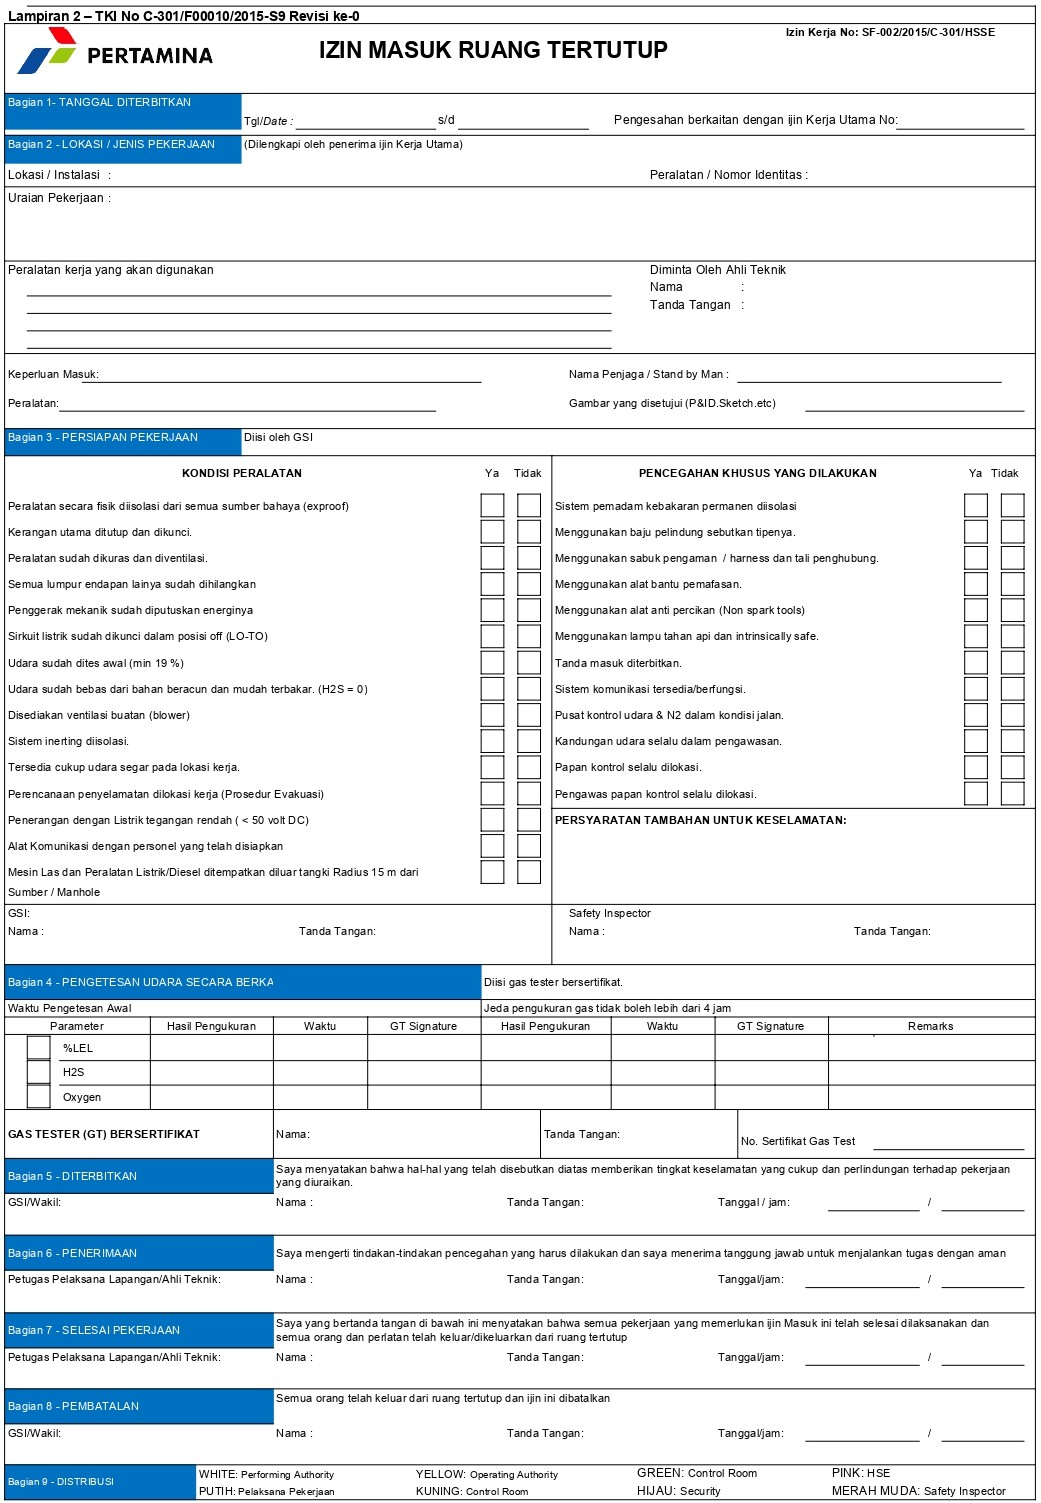
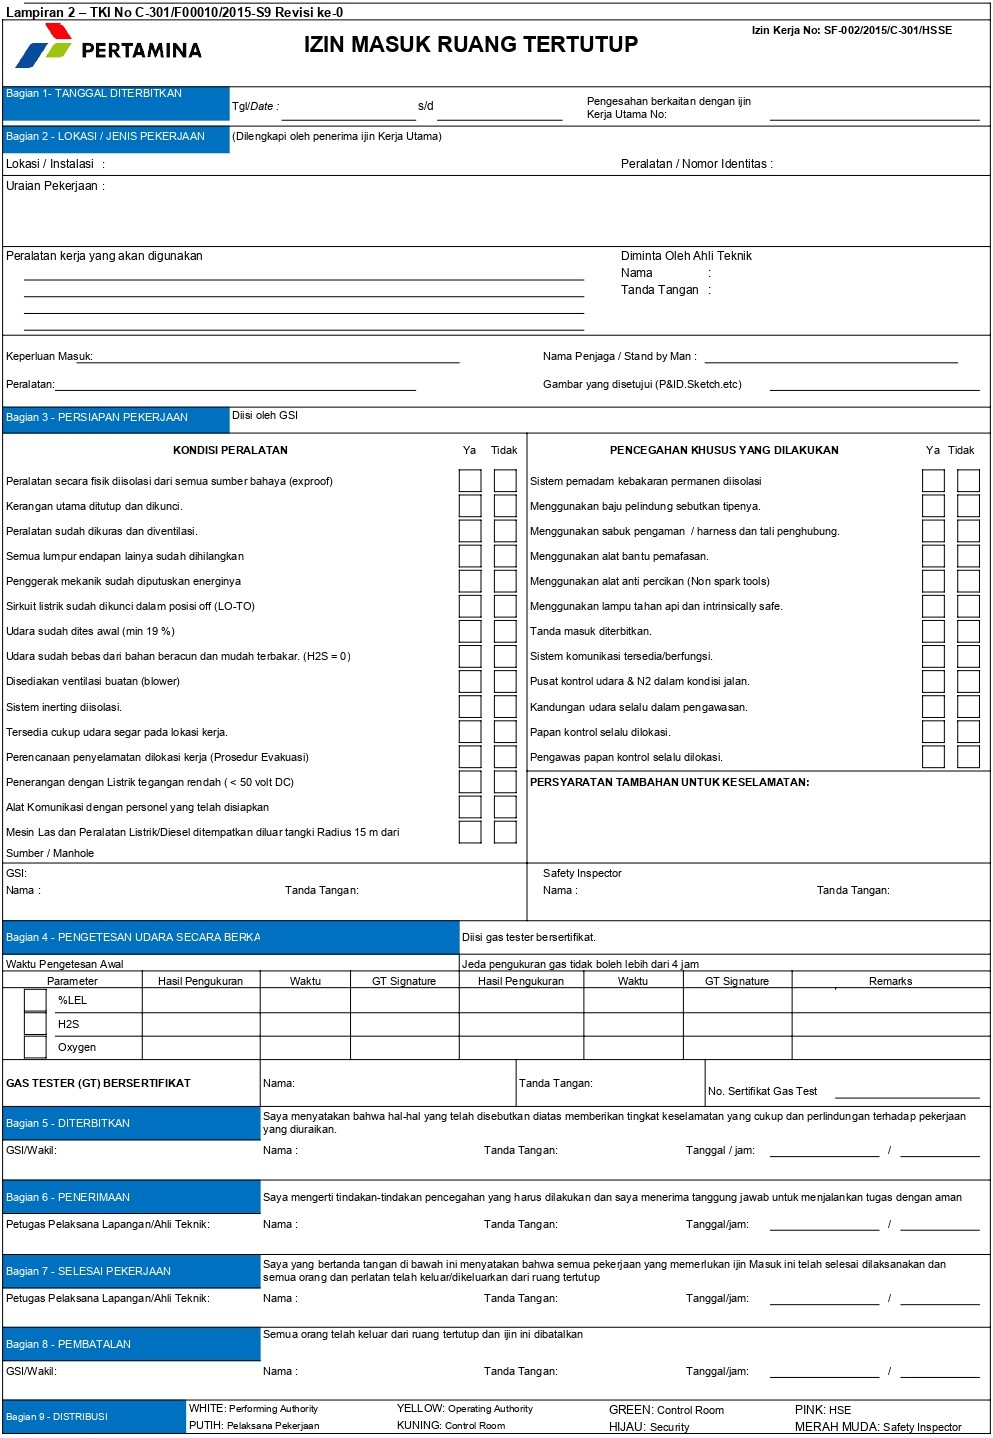
user ahli teknik perbaikan sika turunan

Changed region(s): [[0.0, 0.0, 0.999, 1.0], [0.6244, 0.153, 0.7805, 0.2142], [0.8117, 0.612, 0.9053, 0.6426]]

diff --git a/ahli_teknik/sika_turunan_print.html b/ahli_teknik/sika_turunan_print.html
@@ -87,23 +87,23 @@
   }
 
   #tanggalMulai{
-  	top: 7.25%;
+  	top: 7%;
   	left: 30.25%;
-  	font-size: .8rem;
+  	font-size: .85rem;
   	font-weight: 500;
   }
 
    #tanggalSelesai{
-  	top: 7.25%;
+  	top: 7%;
   	left: 44.8%;
-  	font-size: .8rem;
+  	font-size: .85rem;
   	font-weight: 500;
   }
 
   #noIjinKerja{
-  	top: 7.45%;
-  	left: 84.2%;
-  	font-size: .55rem;
+  	top: 7%;
+  	left: 76.7%;
+  	font-size: .85rem;
   	font-weight: 500;
   }
 
